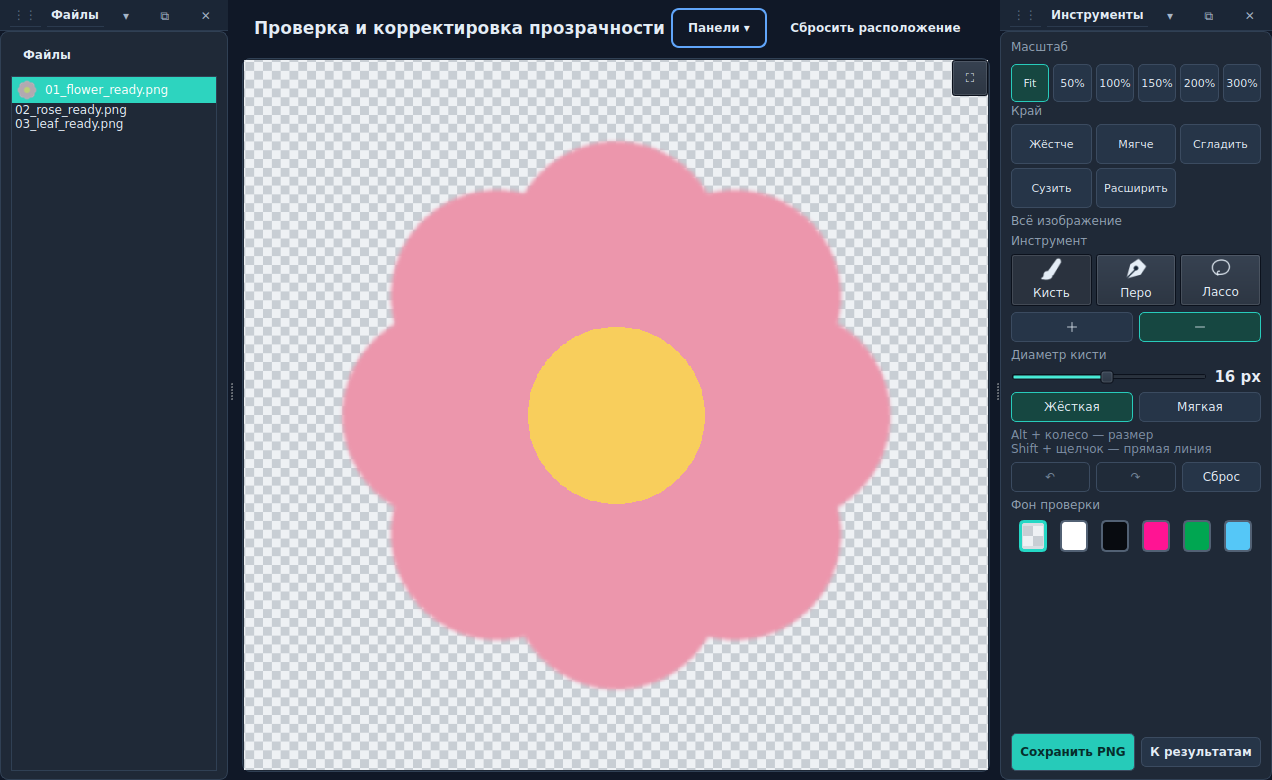
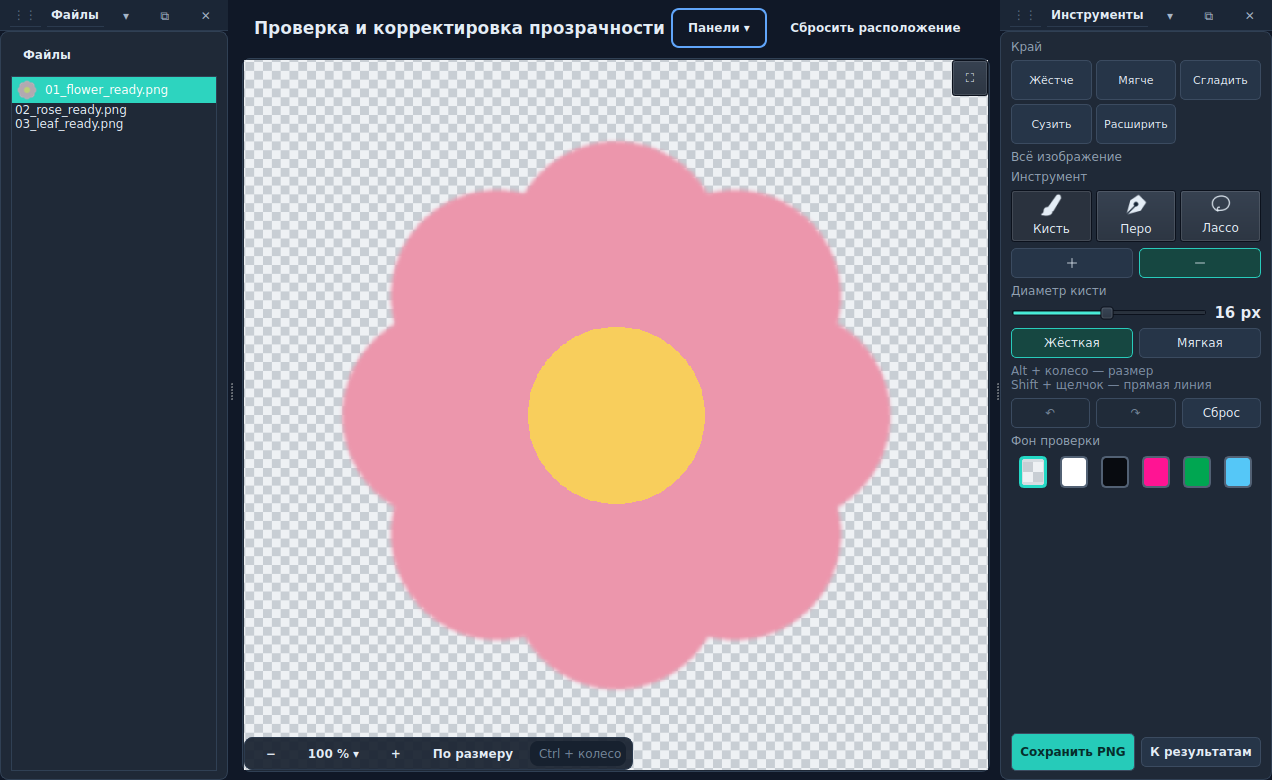
docs: transparency window mockup — zoom on the picture instead of the tools panel (owner idea) [skip ci]

Changed region(s): [[0.7972, 0.0308, 1.0, 0.7077], [0.184, 0.9231, 0.5212, 1.0]]

diff --git a/docs/ui/3.2/photoshop-panels/render.py b/docs/ui/3.2/photoshop-panels/render.py
@@ -78,6 +78,31 @@ win, editor, docks, panels = window()
 win.resizeDocks([docks["files"], docks["tools"]], [200, 520], Qt.Orientation.Vertical)
 win.resizeDocks([docks["tools"]], [290], Qt.Orientation.Horizontal)
 save(win, "01-default-docked-right.png")
+# 1b. Owner idea 2026-10-23: zoom moves from the tools panel onto the picture (bottom-left, like Photoshop).
+for w in editor.tools_scroll.widget().findChildren(QLabel):
+    if w.text() == "Масштаб":
+        w.hide()
+for b in editor.zoom_buttons.values():
+    b.hide()
+bar = QFrame(); bar.setStyleSheet("QFrame{background:rgba(22,32,46,235);border:1px solid #2b3a4e;border-radius:8px}"
+                                  "QToolButton{color:#e4edf6;padding:3px 8px;font-weight:bold}")
+bl = QHBoxLayout(bar); bl.setContentsMargins(6, 3, 6, 3); bl.setSpacing(2)
+for text in ("−", "100 % ▾", "+", "По размеру"):
+    b = QToolButton(); b.setText(text); b.setAutoRaise(True); bl.addWidget(b)
+hint = QLabel("Ctrl + колесо"); hint.setStyleSheet("color:#74869a;border:none;padding-left:6px"); bl.addWidget(hint)
+editor.canvas.parentWidget().layout().addWidget(bar, 0, 0, Qt.AlignmentFlag.AlignBottom | Qt.AlignmentFlag.AlignLeft)
+bar.raise_()
+save(win, "04-zoom-on-picture.png")
+menu_img = Image.new("RGB", (130, 165), (27, 38, 54)); mdz = ImageDraw.Draw(menu_img)
+from PIL import ImageFont as _F
+_f = _F.truetype("/usr/share/fonts/truetype/dejavu/DejaVuSans.ttf", 14)
+mdz.rectangle((0, 0, 129, 164), outline=(43, 58, 78))
+for k, t in enumerate(("По размеру", "50 %", "100 %", "150 %", "200 %", "300 %")):
+    mdz.text((14, 8 + k * 25), ("✓ " if t == "100 %" else "   ") + t, font=_f, fill=(228, 237, 246))
+base4 = Image.open(OUT / "04-zoom-on-picture.png").convert("RGB")
+pos = bar.mapTo(win, bar.rect().topLeft())
+base4.paste(menu_img, (pos.x() + 40, pos.y() - 169))
+base4.save(OUT / "04b-zoom-menu-open.png")
 # 2. «Файлы» dragged to the left edge, «Инструменты» widened.
 win.addDockWidget(Qt.DockWidgetArea.LeftDockWidgetArea, docks["files"])
 win.resizeDocks([docks["files"], docks["tools"]], [210, 360], Qt.Orientation.Horizontal)

diff --git a/docs/ui/3.2/photoshop-panels/README.md b/docs/ui/3.2/photoshop-panels/README.md
@@ -8,6 +8,10 @@
 - `02-files-left-tools-wide.png` — «Файлы» перетащены к левому краю, «Инструменты» расширены.
 - `03-files-hidden-tools-floating.png` — «Файлы» убраны, «Инструменты» отдельным окном над картинкой; меню «Панели ▾»
   возвращает убранные панели; «Сбросить расположение» — как по умолчанию.
+- **Масштаб на панели рисунка (идея владельца 2026-10-23)** `04-zoom-on-picture.png`, `04b-zoom-menu-open.png`:
+  блок «Масштаб» уходит с панели «Инструменты»; внизу слева на картинке — «− | 100 % ▾ | + | По размеру» (список: По
+  размеру, 50–300 %, как сейчас), подсказка «Ctrl + колесо». Масштаб доступен, даже если панель инструментов свёрнута
+  или убрана; на панели освобождается место.
 - Расположение запоминается и восстанавливается при следующем открытии окна.
 - Отличия, которые уберу при реализации: двойной заголовок «Файлы» внутри панели; в макетах 02/03 окно шире 1120 px —
   в реализации минимальная ширина панелей будет меньше, чтобы всё помещалось в 1120 × 780.
